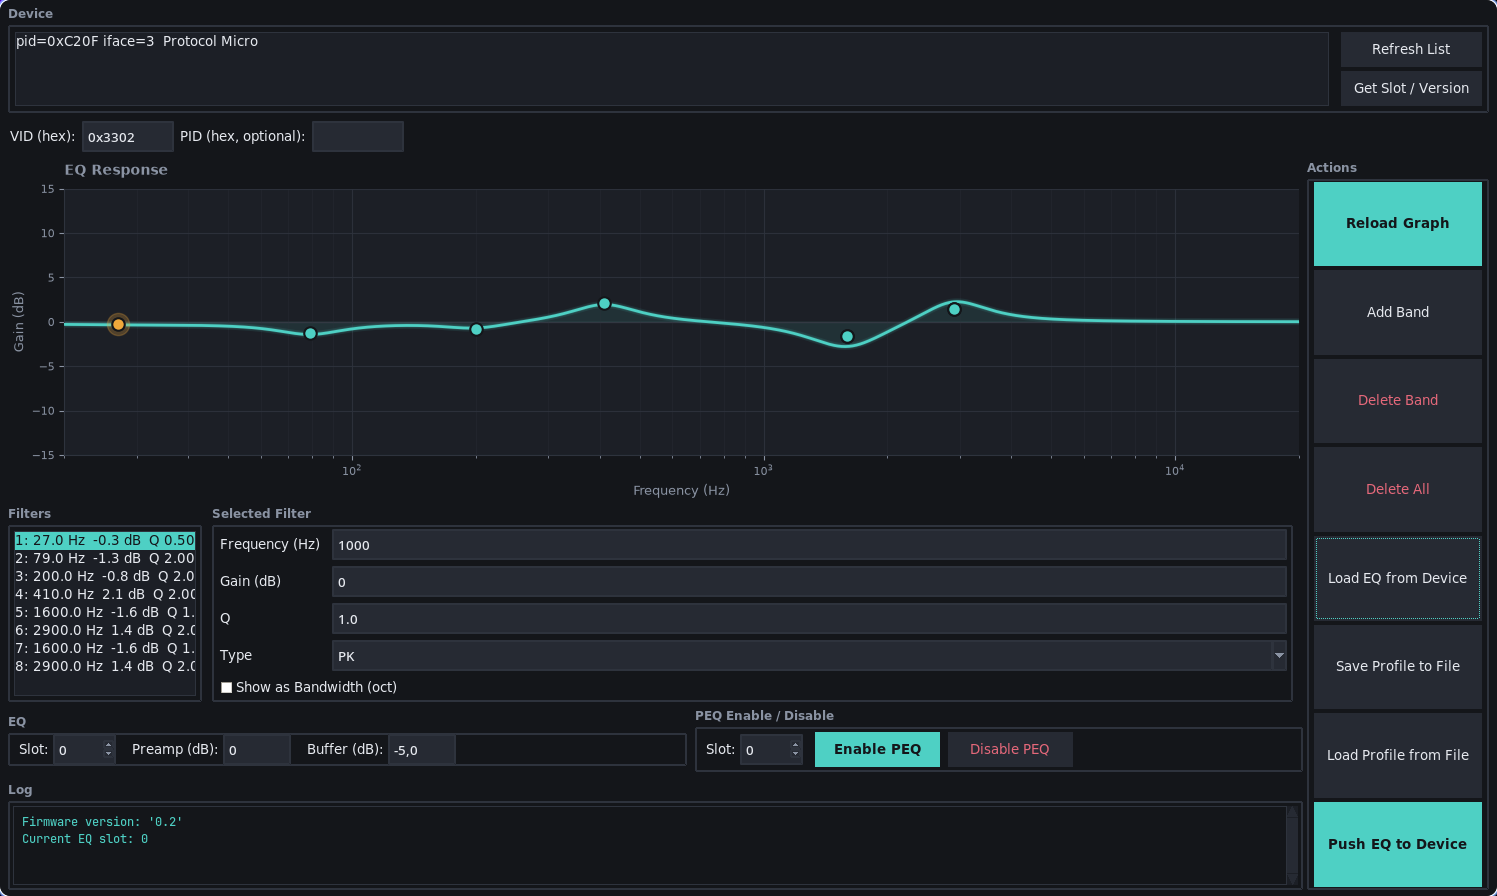
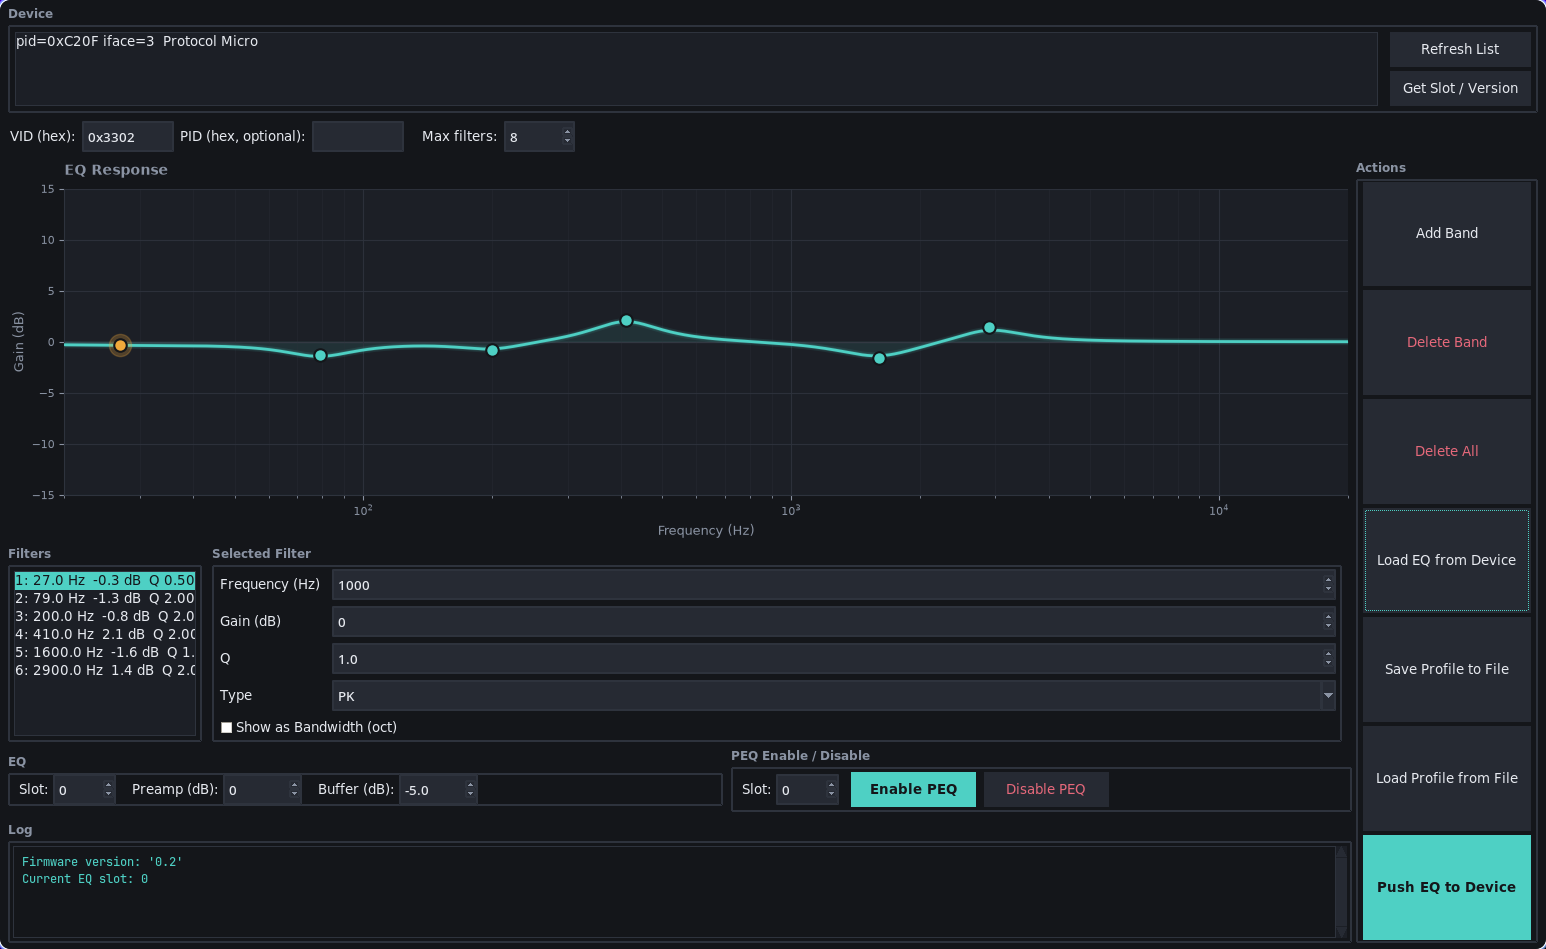
better quit confirmation dialog, add fix for graph still showing on small window size, update screenshot

diff --git a/eqloader.py b/eqloader.py
@@ -496,7 +496,11 @@ class EqLoaderGUI(tk.Tk):
         if self._graph_forced is False:
             self._set_graph_visible(False)
 
-        self.after(150, self._check_initial_graph_visibility)
+        # Evaluate initial graph visibility once the window is actually mapped
+        # (its real size is only known then); a timed call is a fallback in
+        # case <Map> was already delivered.
+        self.bind("<Map>", self._on_mapped, add="+")
+        self.after(200, self._mark_layout_ready)
         self._theme_classic_widgets()
         self._poll_log_queue()
 
@@ -850,9 +854,13 @@ class EqLoaderGUI(tk.Tk):
             if self._graph_forced is None:
                 self._graph_too_small_label.pack(expand=True)
 
-    def _check_initial_graph_visibility(self):
+    def _on_mapped(self, event):
+        if event.widget is self:
+            self._mark_layout_ready()
+
+    def _mark_layout_ready(self):
         self._layout_ready = True
-        self._apply_graph_visibility()
+        self.after_idle(self._apply_graph_visibility)
 
     def _on_window_resize(self, event):
         if not self._layout_ready or self._graph_forced is not None \
@@ -866,6 +874,9 @@ class EqLoaderGUI(tk.Tk):
         self._resize_after_id = None
         if self._graph_forced is not None:
             return
+        # Flush pending geometry so winfo_height() reflects the mapped size and
+        # not a stale value from before the window manager sized the window.
+        self.update_idletasks()
         win_h = self.winfo_height()
         if self.canvas_graph.get_tk_widget().winfo_ismapped():
             # While visible, the chrome above/below the graph is stable, so the
@@ -1356,7 +1367,7 @@ class EqLoaderGUI(tk.Tk):
     # Push / save / load profile
     # ------------------------------------------------------------------
 
-    def _create_push(self):
+    def _create_push(self, then=None):
         if not self.create_filters:
             messagebox.showwarning("No Filters", "Add at least one EQ band first.")
             return
@@ -1384,10 +1395,12 @@ class EqLoaderGUI(tk.Tk):
                       f"({len(filters)} slots)")
             finally:
                 dev.close()
+            if then is not None:
+                self.after(0, then)  # only reached when the push succeeded
 
         self._run_bg(task)
 
-    def _create_save_profile(self):
+    def _create_save_profile(self, then=None):
         if not self.create_filters:
             messagebox.showwarning("No Filters", "Add at least one EQ band first.")
             return
@@ -1404,6 +1417,9 @@ class EqLoaderGUI(tk.Tk):
             self._log(f"Profile saved to {path}\n")
         except Exception as e:
             messagebox.showerror("Save Error", str(e))
+            return
+        if then is not None:
+            then()
 
     def _create_load_profile(self):
         path = filedialog.askopenfilename(
@@ -1513,8 +1529,50 @@ class EqLoaderGUI(tk.Tk):
     # ------------------------------------------------------------------
 
     def _on_close(self):
-        if messagebox.askyesno("Quit", "Do you really want to leave this application?"):
-            self.destroy()
+        dlg = tk.Toplevel(self)
+        dlg.title("Quit")
+        dlg.configure(bg=THEME["chassis"])
+        dlg.transient(self)
+        dlg.resizable(False, False)
+
+        ttk.Label(dlg, text="Do you really want to leave this application?").pack(
+            padx=24, pady=(20, 16))
+
+        row = ttk.Frame(dlg)
+        row.pack(padx=16, pady=(0, 18))
+
+        def choose(action):
+            dlg.destroy()
+            if action == "quit":
+                self.destroy()
+            elif action == "push":
+                self._create_push(then=self.destroy)
+            elif action == "save":
+                self._create_save_profile(then=self.destroy)
+            # "cancel" just closes the dialog
+
+        quit_btn = ttk.Button(row, text="Quit", style="Danger.TButton",
+                              command=lambda: choose("quit"))
+        quit_btn.pack(side="left", padx=4)
+        ttk.Button(row, text="Cancel",
+                   command=lambda: choose("cancel")).pack(side="left", padx=4)
+        ttk.Button(row, text="Push to device and quit",
+                   command=lambda: choose("push")).pack(side="left", padx=4)
+        ttk.Button(row, text="Save to file and quit",
+                   command=lambda: choose("save")).pack(side="left", padx=4)
+
+        # Enter = Quit, Escape = Cancel.
+        dlg.bind("<Return>", lambda _e: choose("quit"))
+        dlg.bind("<KP_Enter>", lambda _e: choose("quit"))
+        dlg.bind("<Escape>", lambda _e: choose("cancel"))
+
+        dlg.protocol("WM_DELETE_WINDOW", dlg.destroy)  # dialog's own X = cancel
+        dlg.grab_set()
+        dlg.update_idletasks()
+        x = self.winfo_rootx() + (self.winfo_width() - dlg.winfo_width()) // 2
+        y = self.winfo_rooty() + (self.winfo_height() - dlg.winfo_height()) // 3
+        dlg.geometry(f"+{max(x, 0)}+{max(y, 0)}")
+        quit_btn.focus_set()
 
     # ------------------------------------------------------------------
     # Logging
